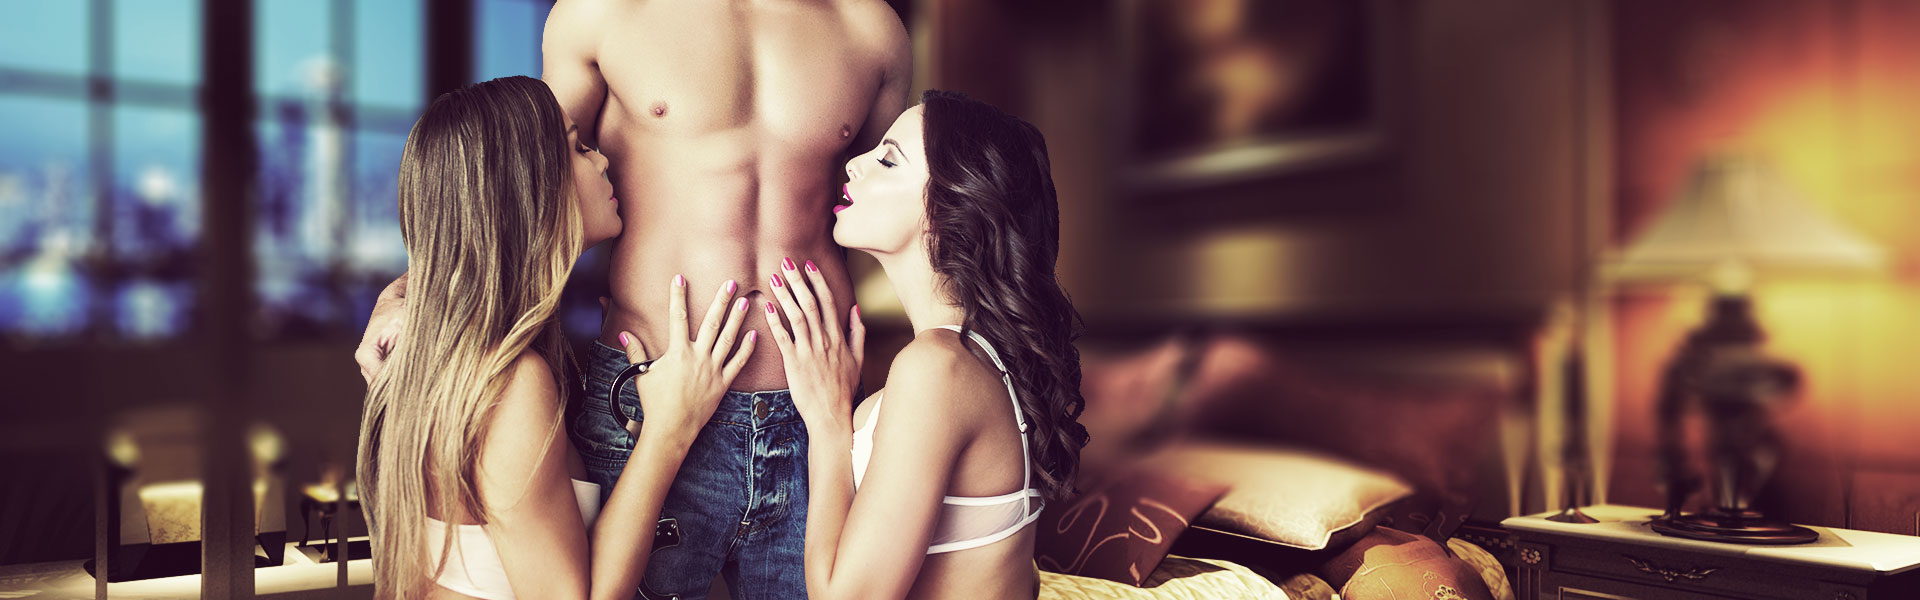
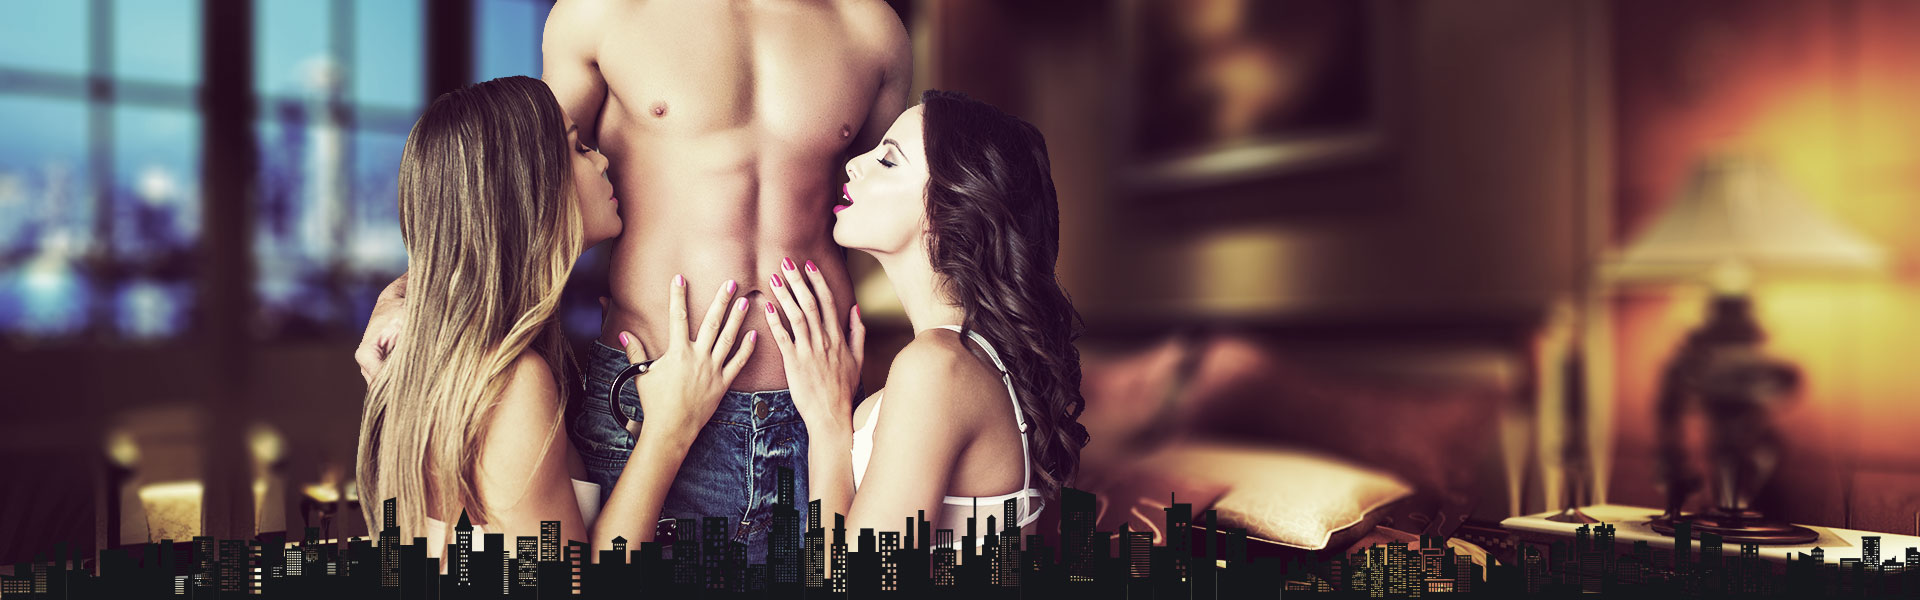
Added home page

Changed region(s): [[0.0, 0.78, 1.0, 1.0]]

diff --git a/site/styles/common.less b/site/styles/common.less
@@ -22,5 +22,35 @@
 @color_bright_action: #ff7bac;
 @color_border: #404040;
 @color_ac_blue: #3498db;
+@color_background: #17181b;
 @color_text: white;
+@radius: 5px;
 @vertical_spacing: 2em;
+
+.action {
+  position: relative;
+  overflow: hidden;
+  padding: 0.5em 2em;
+  background-image: 
+    linear-gradient(180deg, @color_dark_action 0%, @color_bright_action 100%);
+  border-radius: @radius;
+  z-index: 0;
+}
+
+.action:hover:before {
+  opacity: 1;
+}
+
+.action:before {
+  content: "";
+  position: absolute;
+  top: 0;
+  left: 0;
+  width: 100%;
+  height: 100%;
+  background-image: 
+    linear-gradient(180deg, @color_bright_action 0%, @color_dark_action 100%);
+  opacity: 0;
+  transition: all 0.3s;
+  z-index: -1;
+}

diff --git a/site/styles/content.less b/site/styles/content.less
@@ -1,0 +1,33 @@
+/**
+ * Content Style Sheet
+ * Bsexy site
+ *
+ * Copyright (c) 2016. by Way2CU, http://way2cu.com
+ * Authors:Tal Reznic
+ */
+
+div.intro {
+  padding: 0px calc(~'(100% - 960px)' / 2);
+  padding-top: 620px;
+  text-align: center;
+  background-color: @color_background;
+  background-image: url(../images/main-header.jpg);
+  background-repeat: no-repeat;
+  background-position: center top;
+  background-size: 1920px 600px;
+}
+
+div.intro a {
+  display: inline-block;
+  text-decoration: none;
+  margin-bottom: 1em;
+  color: @color_text;
+  font-weight: 700;
+  font-size: 2em;
+}
+
+div.intro article {
+  margin: 0;
+  padding: 1em 0em;
+  border-top: 1px solid @color_text;
+}

diff --git a/site/styles/main.less b/site/styles/main.less
@@ -7,10 +7,12 @@
  */
 
 @import 'common.less';
+@import 'content.less';
 @import 'footer.less';
+
 body {
-	background-color: white;
-	color: black;
+	background-color: @color_background;
+	color: @color_text;
   font-family: 'open-sans';
 }
 

diff --git a/site/styles/footer.less b/site/styles/footer.less
@@ -47,6 +47,7 @@ footer a.phone {
   color: @color_text;
   transition: all 0.3s;
   border: 1px solid transparent;
+  border-radius: @radius;
 }
 
 footer a.phone:hover {
